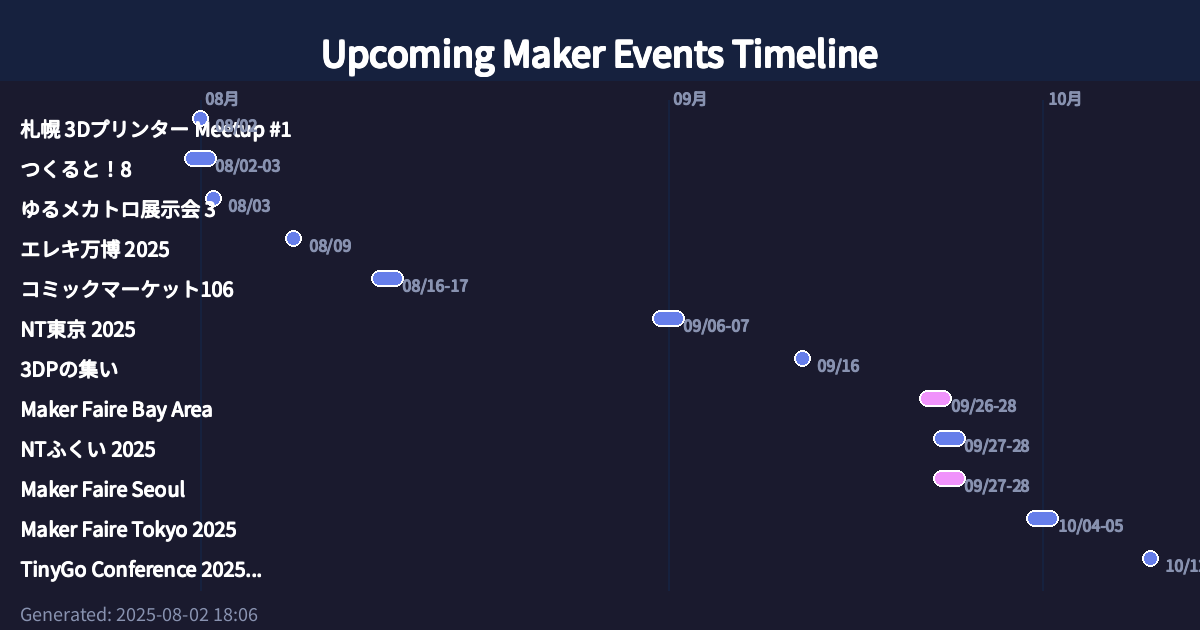
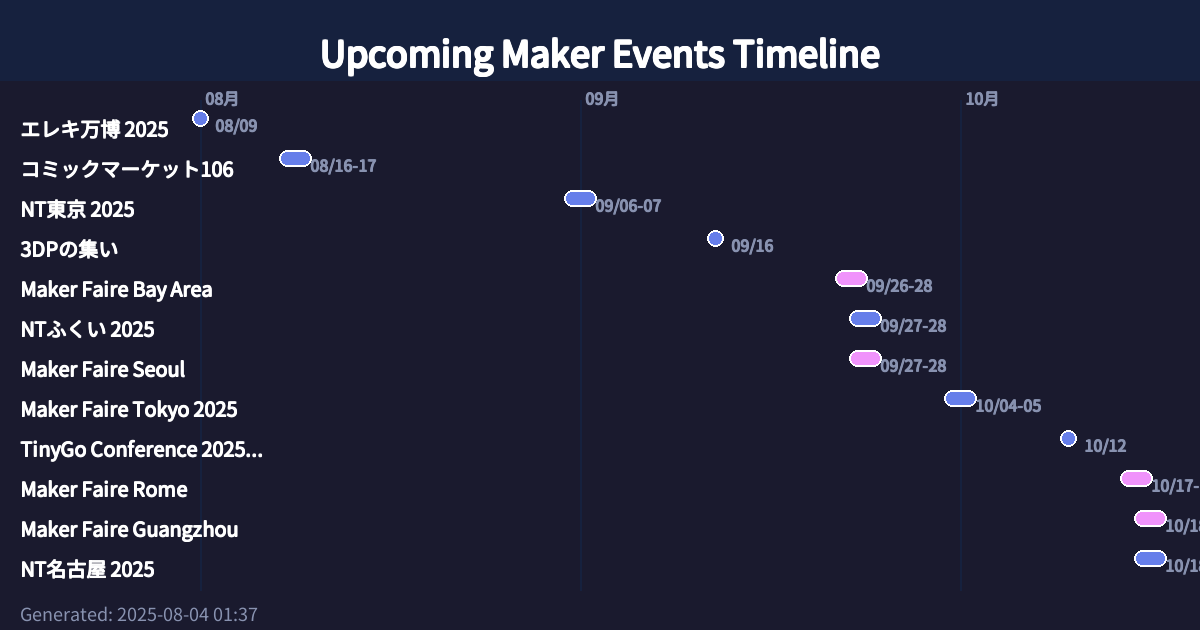
時間経過による自動更新機能を追加
- should_update_page()関数を新設：スプレッドシート変更+時間経過の両方をチェック
- 12時間以上経過した場合は時間経過による更新を実行
- 終了したイベントがある場合も定期的にページを更新
- より詳細なログメッセージで更新理由を明確化
- 自動実行時の効率性と確実性を両立

🤖 Generated with [Claude Code](https://claude.ai/code)

diff --git a/index.html b/index.html
@@ -7,7 +7,7 @@
     
     <!-- OGP Meta Tags for Social Media Sharing -->
     <meta property="og:title" content="Upcoming Maker Events | 今後のメイカーイベント">
-    <meta property="og:description" content="世界中のメイカーイベント情報を一覧で確認。Maker Faire、NT、技術書典など30件のイベント情報を掲載。 | Discover upcoming maker events worldwide including Maker Faires, technical conferences, and maker gatherings.">
+    <meta property="og:description" content="世界中のメイカーイベント情報を一覧で確認。Maker Faire、NT、技術書典など28件のイベント情報を掲載。 | Discover upcoming maker events worldwide including Maker Faires, technical conferences, and maker gatherings.">
     <meta property="og:type" content="website">
     <meta property="og:url" content="https://shinichi-ohki.github.io/maker_event/">
     <meta property="og:image" content="https://shinichi-ohki.github.io/maker_event/ogp_image.png">
@@ -17,11 +17,11 @@
     <!-- Twitter Card -->
     <meta name="twitter:card" content="summary_large_image">
     <meta name="twitter:title" content="Upcoming Maker Events | 今後のメイカーイベント">
-    <meta name="twitter:description" content="世界中のメイカーイベント情報を一覧で確認。30件のイベント情報を掲載。">
+    <meta name="twitter:description" content="世界中のメイカーイベント情報を一覧で確認。28件のイベント情報を掲載。">
     <meta name="twitter:image" content="https://shinichi-ohki.github.io/maker_event/ogp_image.png">
     
     <!-- Standard Meta Tags -->
-    <meta name="description" content="世界中のメイカーイベント情報を一覧で確認。Maker Faire、NT、技術書典など30件のイベント情報を掲載。">
+    <meta name="description" content="世界中のメイカーイベント情報を一覧で確認。Maker Faire、NT、技術書典など28件のイベント情報を掲載。">
     <meta name="keywords" content="Maker Faire, メイカーイベント, 技術イベント, NT, 技術書典, DIY, ハードウェア, プログラミング">
     <meta name="author" content="Maker Events Team">
     <style>
@@ -199,63 +199,6 @@
         <section class="japan-events">
             <h2 class="section-title">🇯🇵 日本のイベント | Events in Japan</h2>
             <div class="events-grid">
-                
-                <div class="event-card">
-                    <div class="event-image">
-                        
-                            <img src="https://media.connpass.com/thumbs/97/87/9787740988d802f6521babb76f7a1141.png" alt="札幌 3Dプリンター Meetup #1" style="width: 100%; height: 100%; object-fit: cover;">
-                        
-                    </div>
-                    <div class="event-content">
-                        
-                        <div class="event-date">2025年08月02日</div>
-                        
-                        <h3 class="event-title">札幌 3Dプリンター Meetup #1</h3>
-                        <p class="event-location">北海道大学 オープンイノベーションハブ エンレイソウ 第１会議室, 札幌, 日本</p>
-                        
-                        
-                        <a href="https://hokudai3d.connpass.com/event/361619/" class="event-link" target="_blank">詳細を見る</a>
-                        
-                    </div>
-                </div>
-                
-                <div class="event-card">
-                    <div class="event-image">
-                        
-                            <img src="http://vol7.tsukuruto.net/wp-content/uploads/sites/2/2024/06/ogp-1024x683.png" alt="つくると！8" style="width: 100%; height: 100%; object-fit: cover;">
-                        
-                    </div>
-                    <div class="event-content">
-                        
-                        <div class="event-date">2025年08月02日〜03日</div>
-                        
-                        <h3 class="event-title">つくると！8</h3>
-                        <p class="event-location">九州産業大学 12号館, 福岡, 日本</p>
-                        
-                        
-                        <a href="https://vol8.tsukuruto.net/" class="event-link" target="_blank">詳細を見る</a>
-                        
-                    </div>
-                </div>
-                
-                <div class="event-card">
-                    <div class="event-image">
-                        
-                            <img src="https://media.connpass.com/thumbs/d3/d6/d3d655205a2beed0ffa1256626e7ba7b.png" alt="ゆるメカトロ展示会 3" style="width: 100%; height: 100%; object-fit: cover;">
-                        
-                    </div>
-                    <div class="event-content">
-                        
-                        <div class="event-date">2025年08月03日</div>
-                        
-                        <h3 class="event-title">ゆるメカトロ展示会 3</h3>
-                        <p class="event-location">専門学校東京テクニカルカレッジ B1 テラホール, 東京, 日本</p>
-                        
-                        
-                        <a href="https://yurumect.connpass.com/event/353590/" class="event-link" target="_blank">詳細を見る</a>
-                        
-                    </div>
-                </div>
                 
                 <div class="event-card">
                     <div class="event-image">
@@ -526,6 +469,25 @@
                 <div class="event-card">
                     <div class="event-image">
                         
+                            <img src="https://www.comiket.co.jp/info-a/C106/images/C106CtlgWeb.jpeg" alt="コミックマーケット107" style="width: 100%; height: 100%; object-fit: cover;">
+                        
+                    </div>
+                    <div class="event-content">
+                        
+                        <div class="event-date">2025年12月30日〜31日</div>
+                        
+                        <h3 class="event-title">コミックマーケット107</h3>
+                        <p class="event-location">東京ビッグサイト, 東京, 日本</p>
+                        
+                        
+                        <a href="https://www.comiket.co.jp/" class="event-link" target="_blank">詳細を見る</a>
+                        
+                    </div>
+                </div>
+                
+                <div class="event-card">
+                    <div class="event-image">
+                        
                             🛠
                         
                     </div>
@@ -788,7 +750,7 @@
     </div>
     
     <footer style="text-align: center; margin-top: 1rem; padding: 1rem; color: #666; font-size: 0.8rem; border-top: 1px solid #e0e0e0;">
-        <p>Last updated: 2025-08-03 03:06 JST</p>
+        <p>Last updated: 2025-08-04 01:37 JST</p>
     </footer>
 </body>
 </html>

diff --git a/generate_events.py b/generate_events.py
@@ -142,6 +142,43 @@ def has_spreadsheet_changed(sheet_url: str) -> tuple[bool, str]:
         return True, ""  # エラー時は更新を実行
 
 
+def should_update_page(sheet_url: str) -> tuple[bool, str]:
+    """ページ更新が必要かチェック（スプレッドシート変更 + 時間経過）
+    
+    Returns:
+        tuple[bool, str]: (更新が必要か, 現在のハッシュ値)
+    """
+    # スプレッドシートの変更をチェック
+    spreadsheet_changed, current_hash = has_spreadsheet_changed(sheet_url)
+    
+    if spreadsheet_changed:
+        return True, current_hash
+    
+    # スプレッドシートに変更がない場合、時間経過による更新が必要かチェック
+    last_state = load_last_state()
+    last_updated_str = last_state.get('last_updated', '')
+    
+    if not last_updated_str:
+        print("🕒 前回更新時刻が不明のため、更新を実行")
+        return True, current_hash
+    
+    try:
+        last_updated = datetime.fromisoformat(last_updated_str)
+        hours_since_update = (datetime.now() - last_updated).total_seconds() / 3600
+        
+        # 12時間以上経過している場合は時間経過による更新を実行
+        if hours_since_update >= 12:
+            print(f"🕒 前回更新から{hours_since_update:.1f}時間経過: 時間経過による更新を実行")
+            return True, current_hash
+        else:
+            print(f"⏰ 前回更新から{hours_since_update:.1f}時間: 更新不要")
+            return False, current_hash
+            
+    except Exception as e:
+        print(f"⚠  時間チェックエラー: {e}, 安全のため更新を実行")
+        return True, current_hash
+
+
 def auto_commit_and_push() -> bool:
     """変更をGitリポジトリにコミット・プッシュ"""
     try:
@@ -1073,13 +1110,13 @@ def main():
     
     sheet_url = "https://docs.google.com/spreadsheets/d/1a2XqNp01q6hFiyyFjq5hMlYGV66Z9UeOHZP4snSXaz0/edit?gid=0#gid=0"
     
-    # スプレッドシートの変更をチェック（--forceオプションでスキップ可能）
+    # ページ更新が必要かチェック（--forceオプションでスキップ可能）
     if not args.force:
-        print("🔍 スプレッドシートの変更をチェック中...")
-        has_changed, current_hash = has_spreadsheet_changed(sheet_url)
+        print("🔍 ページ更新の必要性をチェック中...")
+        should_update, current_hash = should_update_page(sheet_url)
         
-        if not has_changed:
-            print("⏭  変更がないため、HTML生成をスキップします")
+        if not should_update:
+            print("⏭  更新不要のため、HTML生成をスキップします")
             return
     else:
         print("⚡ 強制実行モード: 変更検出をスキップします")
